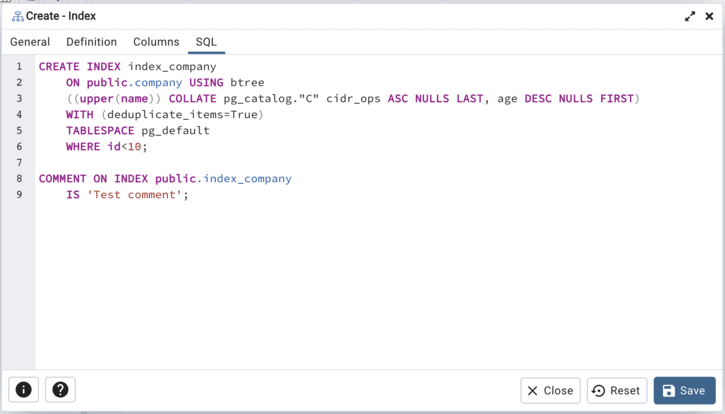
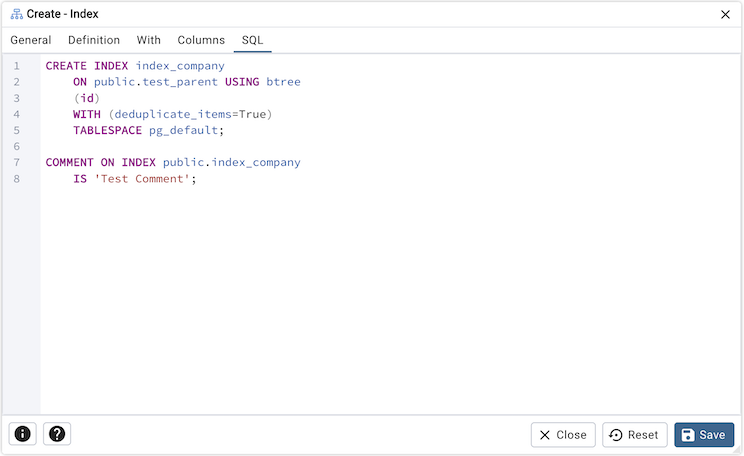
Add support for 'ONLY' in Index creation dialog. #6386

Changed region(s): [[0.0, 0.0, 1.0, 0.4928], [0.0, 0.8986, 1.0, 1.0], [0.971, 0.1159, 1.0, 0.1449]]

diff --git a/web/pgadmin/browser/server_groups/servers/databases/schemas/tables/indexes/static/js/index.ui.js b/web/pgadmin/browser/server_groups/servers/databases/schemas/tables/indexes/static/js/index.ui.js
@@ -364,6 +364,7 @@ export default class IndexSchema extends BaseUISchema {
       amname: undefined,
       fastupdate: false,
       autosummarize: false,
+      indisonly: false,
       columns: [],
       ...initValues
     });
@@ -522,7 +523,20 @@ export default class IndexSchema extends BaseUISchema {
         mode: ['create', 'edit', 'properties']
       },
       {
-        type: 'nested-fieldset', label: gettext('With'), group: gettext('Definition'),
+        id: 'indisonly', label: gettext('Only Table?'), 
+        type: 'switch', group: gettext('Definition'), 
+        disabled: () => {
+          // ONLY is only applicable to partitioned tables
+          // Disable if not a partitioned table or if viewing in schema (view mode)
+          return inSchema(indexSchemaObj.node_info) || 
+                 !indexSchemaObj.node_info?.table?.is_partitioned;
+        },
+        mode: ['create'],
+        min_version: 110000,
+        helpMessage: gettext('When enabled, the index will only be created on this table, not on its partitions.'),
+      },
+      {
+        type: 'nested-fieldset', label: gettext('With'), group: gettext('With'),
         schema: this.withSchema,
       },{
         id: 'indisunique', label: gettext('Unique?'), cell: 'string',

diff --git a/docs/en_US/index_dialog.rst b/docs/en_US/index_dialog.rst
@@ -51,6 +51,28 @@ Use the fields in the *Definition* tab to define the index:
 * Use the drop-down listbox next to *Depends on extensions* to select the extension 
   that this index depends on (for example, edbspl). If set, dropping the extension 
   will automatically drop the index as well.
+* Move the switch next to *Only Table?* to the *Yes* position to create the index
+  only on the parent table without recursing to its partitions. This button will be
+  enabled for partition tables only. The default is *No*.
+* Move the switch next to *Unique?* to the *Yes* position to check for duplicate values
+  in the table when the index is created and when data is added. The default is *No*.
+* Move the switch next to *NULLs not distinct?* to the *Yes* position to treat null values as not distinct. 
+  The default is *No*. This option is available only on PostgreSQL 15 and above.
+* Move the *Clustered?* switch to the *Yes* position to instruct the server to
+  cluster the table.
+* Move the *Concurrent build?* switch to the *Yes* position to build the index
+  without taking any locks that prevent concurrent inserts, updates, or deletes
+  on the table.
+* Use the *Constraint* field to provide a constraint expression; a constraint
+  expression limits the entries in the index to those rows that satisfy the
+  constraint.
+
+Click the *With* tab to continue.
+
+.. image:: images/index_with.png
+    :alt: Index dialog with tab
+    :align: center
+
 * Use the *Fill Factor* field to specify a fill factor for the index. The fill
   factor specifies how full the selected method will try to fill each index
   page.
@@ -66,18 +88,6 @@ Use the fields in the *Definition* tab to define the index:
   The default is *Yes*.
 * Move the switch next to *Autosummarize* to the *Yes* position to define whether a summarization run is 
   queued for the previous page range whenever an insertion is detected on the next one. The default is *No*
-* Move the switch next to *Unique?* to the *Yes* position to check for duplicate values
-  in the table when the index is created and when data is added. The default is *No*.
-* Move the switch next to *NULLs not distinct?* to the *Yes* position to treat null values as not distinct. 
-  The default is *No*. This option is available only on PostgreSQL 15 and above.
-* Move the *Clustered?* switch to the *Yes* position to instruct the server to
-  cluster the table.
-* Move the *Concurrent build?* switch to the *Yes* position to build the index
-  without taking any locks that prevent concurrent inserts, updates, or deletes
-  on the table.
-* Use the *Constraint* field to provide a constraint expression; a constraint
-  expression limits the entries in the index to those rows that satisfy the
-  constraint.
 
 Click the *Columns* tab to continue.
 
